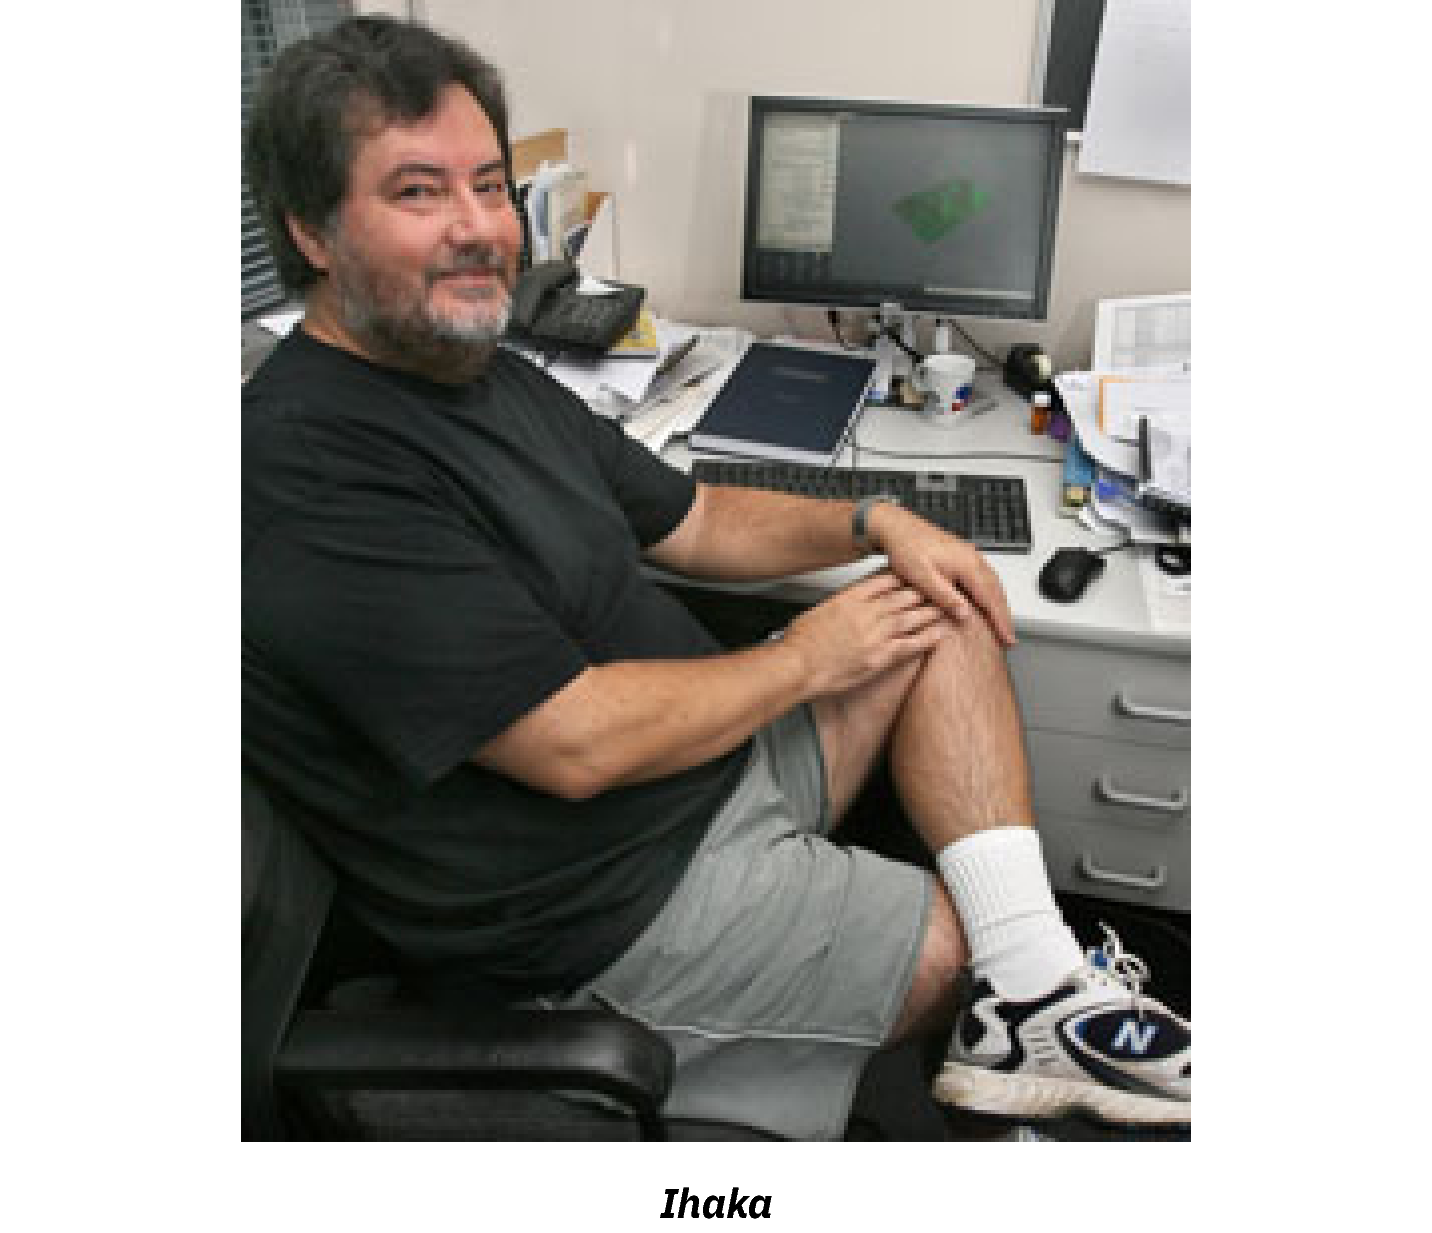
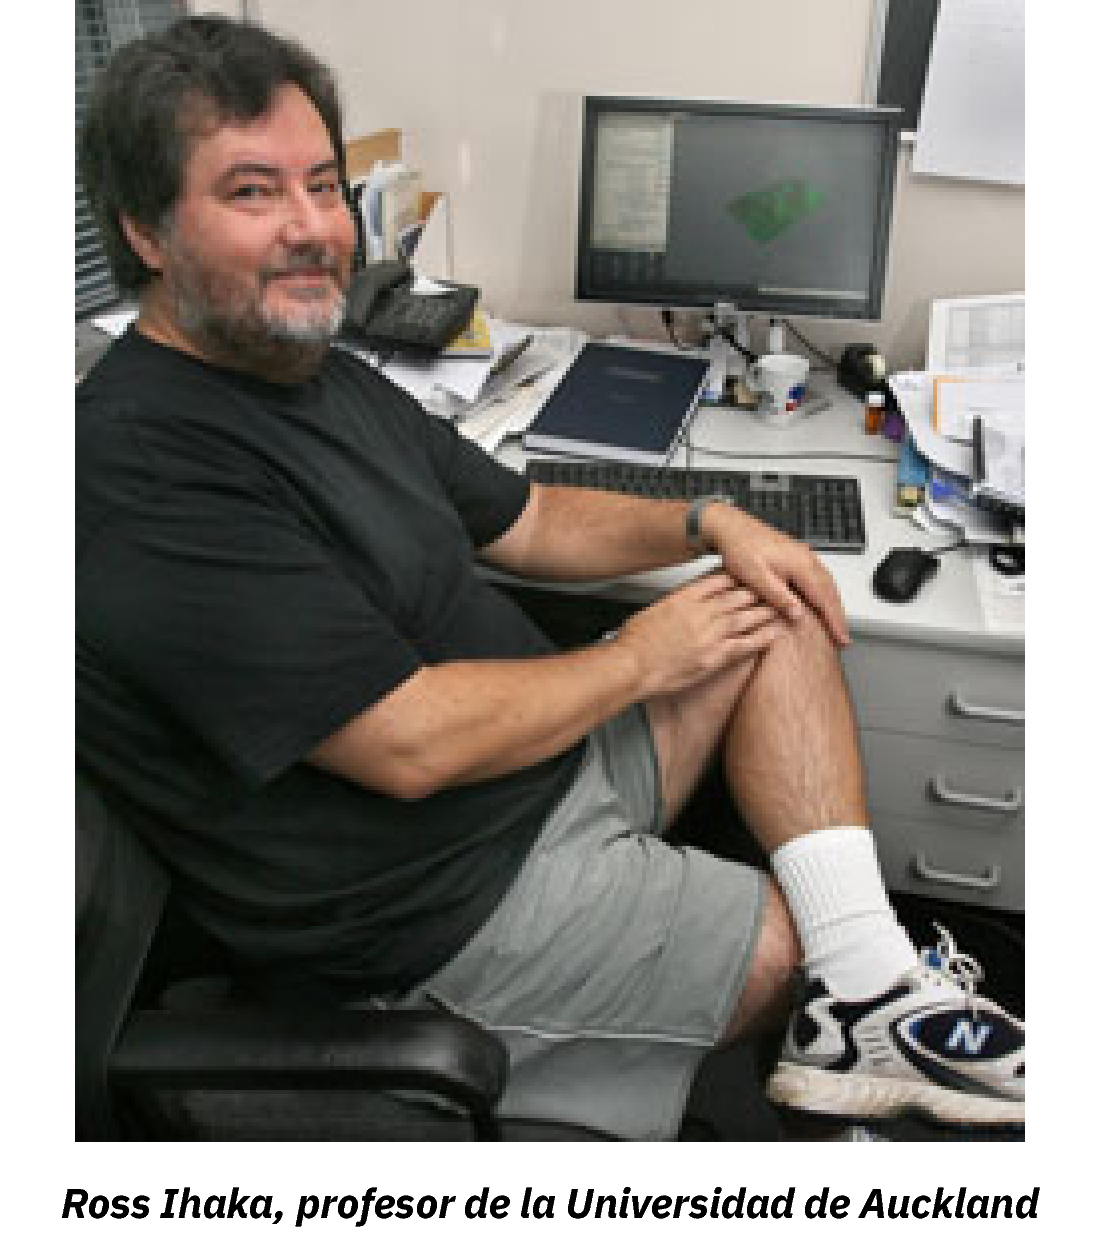
Commit

diff --git a/images/ihaka.tex b/images/ihaka.tex
@@ -1,4 +1,4 @@
-\documentclass[preview]{standalone}
+\documentclass[preview,border={-40pt 0pt -40pt 0pt}]{standalone}
 \usepackage{graphicx,caption,float}
 \usepackage[T1]{fontenc}
 \usepackage[usefilenames,% Important for XeLaTeX
@@ -8,6 +8,6 @@ DefaultFeatures={Ligatures=Common}]{plex-otf} %
 	\begin{figure}[H]
 		\centering
 		\includegraphics[height=0.5\textheight]{ihaka.jpg}
-		\caption*{\bfseries\itshape Ihaka}
+		\caption*{\bfseries\itshape Ross Ihaka, profesor de la Universidad de Auckland}
 	\end{figure}
 \end{document}
